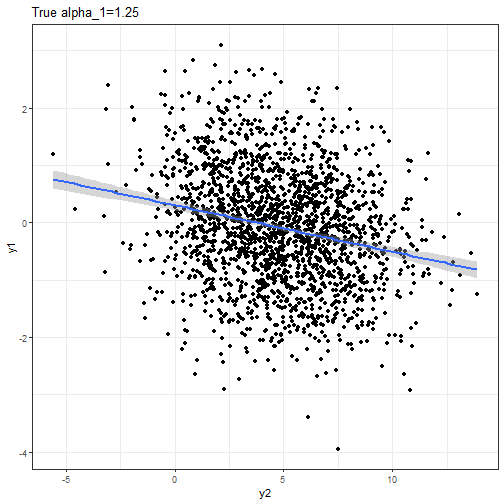
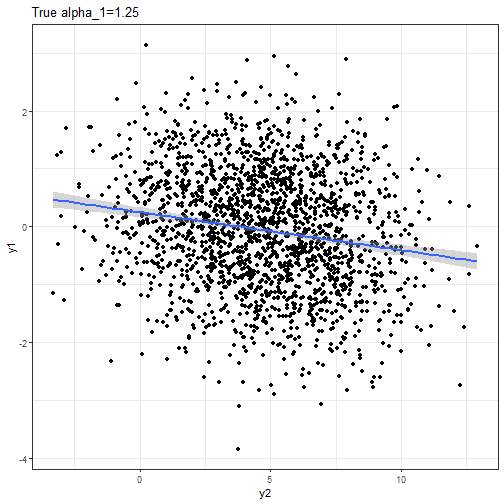
Sim.

diff --git a/lec/04-Instrumental-Variables/04-Instrumental-Variables.html b/lec/04-Instrumental-Variables/04-Instrumental-Variables.html
@@ -16,7 +16,7 @@ class: center, middle, inverse, title-slide
 # Instrumental Variables
 ## EC420 MSU Online
 ### Justin Kirkpatrick
-### Last updated June 06, 2021
+### Last updated June 08, 2021
 
 ---
 
@@ -1258,9 +1258,8 @@ This tells us whether or not we should be worried about correlation with `\(u\)`
 --
 
   - Although...we could think of times that even rainfall is endogenous.
-  - Any ideas about how *rainfall* could be endogenous?
   - What about a model that includes the selection of land for farming?
-  - How could we fix this?
+
   
   
 
@@ -1340,7 +1339,7 @@ class: MSU
 
 `\(h_i\)` and `\(w_i\)` are the endogenous variables. Why?
 
-### Because, given `\(z_{1i},z_{2i},u_{1i},u_{2i}\)`, then `\(h_i\)` and `\(w_i\)` are completely determined
+### Because, given `\(z_{1i},z_{2i},u_{1i},u_{2i}\)`, then `\(h_i\)` and `\(w_i\)` are .orange[completely determined]
 - with a few assumptions about `\(\alpha_1\)` and `\(\alpha_2\)`
 
 ### The dependent variable and one or more explanatory variables are jointly determined within the system.
@@ -1414,9 +1413,9 @@ We can formally show the bias in simultaneous equations. Remember, bias occurs w
 `$$y_1 = \alpha_1 y_2 + \beta_1 z_1 + u_1$$`
 
 `$$y_2 = \alpha_2 y_1 + \beta_2 z_2 + u_2$$`
-`\(y_1,y_2\)` could be `\(murdpc\)` and `\(polpc\)`.
+`\(y_1,y_2\)` could be `\(murdpc\)` and `\(polpc\)` from the previous section.
 
-### But estimating this first equation by OLS would result in a biased `\(\alpha_1\)`. So we can't do it. 
+### But estimating either equation by OLS would result in a biased `\(\alpha\)`. So we can't do it. 
 - Specifically, we are in trouble on the first if `\(y_2\)` is correlated with `\(u_1\)`; 
 - And if `\(y_1\)` is correlated with `\(u_2\)` for the second.
 - Let's see why this is true...
@@ -1427,40 +1426,8 @@ class: MSU
 
 ### To see bias, substitute the first equation into the second
 `$$y_2 = \alpha_2 \underbrace{\color{red}{(\alpha_1 y_2 + \beta_1 z_1 + u_1)}}_{y_1} + \beta_2 z_2 + u_2$$`
-`$$(1-\alpha_2 \alpha_1)y_2 = \alpha_2\beta_1 z_1 + \beta_2 z_2 + \underbrace{\alpha_2 u_1 + u_2}_{uh-oh}$$`
-
----
-class: MSU
-# Simultaneity
-
-Divide both sides by `\((1-\alpha_2 \alpha_1)\)`:
-`$$y_2 = \frac{\alpha_2 \beta_1}{(1-\alpha_2 \alpha_1)} z_1 + \frac{\beta_2}{(1-\alpha_2 \alpha_1)}z_2 +  \underbrace{ \frac{\alpha_2}{(1-\alpha_2 \alpha_1)} u_1 +\frac{1}{(1-\alpha_2 \alpha_1)}u_2}_{v_2}$$`
-
-`$$y_2 = \pi_{21} z_1 + \pi_{22} z_2 + v_2$$`
-### This is called the *reduced form* equation.
-- We *can* estimate `\(\pi_{21}\)` and `\(\pi_{22}\)`, but the coefficients lose their structural interpretation. 
-- Our estimation of `\(\pi_{21}\)` and `\(\pi_{22}\)` is unbiased - `\(z\)`'s are exogenous, and `\(u_1\)` itself is uncorrelated wtih `\(y_2\)`.
-
-
----
-class: MSU
-# Simultaneity
-
-### Back to checking to see if we have bias in:
-`$$y_1 = \alpha_1 y_2 + \beta_1 z_1 + u_1$$`
-Remember, we are in trouble if `\(y_2\)` is correlated with `\(u_1\)`, right?
-
-Well, we know:
-`$$y_2 = \pi_{21} z_1 + \pi_{22} z_2 + v_2$$`
-
-and `\(v_2\)`, the reduced form error:
-
-`$$v_2 = \frac{\alpha_2}{(1-\alpha_2 \alpha_1)} u_1 +\frac{1}{(1-\alpha_2 \alpha_1)}u_2$$`
-
-Since `\(v_2\)` has `\(u_1\)` in it, and since `\(y_2\)` has `\(v_2\)` in it, then `\(y_2\)` **is correlated with** `\(u_1\)`, and OLS of `\(y_1 = \alpha_1 y_2 + \beta_1 z_1 + u_1\)` is biased.
-
-### This is simultaneity bias
-
+`$$(1-\alpha_2 \alpha_1)y_2 =  \beta_2 z_2 + \alpha_2\beta_1 z_1 + \underbrace{\color{red}{\alpha_2 u_1}}_{uh-oh} + u_2$$`
+This shows that `\(y_2\)` is correlated with `\(u_1\)`. Estimating the `\(y_2\)` equation from the previous slide gives a biased `\(\alpha_2\)`. .orange[This is simultaneity bias].
 
 ---
 class: heading-slide
@@ -1471,6 +1438,43 @@ Identification in Simultaneous Equations
 
 
 ### [top](#Overview)
+
+---
+class: MSU
+# Simultaneity
+
+### We started with:
+
+`$$y_1 = \alpha_1 y_2 + \beta_1 z_1 + u_1$$`
+
+`$$y_2 = \alpha_2 y_1 + \beta_2 z_2 + u_2$$`
+---
+class: MSU
+# Simultaneity
+
+### We plugged in `\(y_1\)` as a function of `\(y_2,z_1,u_1\)` to estimate `\(\alpha_2\)`
+
+
+`$$(1-\alpha_2 \alpha_1)y_2 =  \beta_2 z_2 + \alpha_2\beta_1 z_1 + \alpha_2 u_1+ u_2$$`
+### and can do the same for `\(y_2\)`
+
+`$$(1-\alpha_2 \alpha_1)y_1 =  \beta_1 z_1 + \alpha_1\beta_2 z_2 + \alpha_1 u_2+ u_1$$`
+
+---
+class: MSU
+# Simultaneity
+
+In the `\(y_2\)` equation, Divide both sides by `\((1-\alpha_2 \alpha_1)\)`:
+
+`$$y_2 = \frac{\beta_2}{(1-\alpha_2 \alpha_1)}z_2 +  \frac{\alpha_2 \beta_1}{(1-\alpha_2 \alpha_1)} z_1 + \underbrace{ \frac{\alpha_2}{(1-\alpha_2 \alpha_1)} u_1 +\frac{1}{(1-\alpha_2 \alpha_1)}u_2}_{v_2}$$`
+Which gives us:
+
+`$$y_2 = \pi_{21} z_1 + \pi_{22} z_2 + v_2$$`
+
+### This is called the *reduced form* equation for `\(y_2\)`
+- We *can* estimate `\(\pi_{21}\)` and `\(\pi_{22}\)`, but the coefficients lose their structural interpretation. 
+- Our estimation of `\(\pi_{21}\)` and `\(\pi_{22}\)` is unbiased - `\(z\)`'s are exogenous.
+- `\(\pi_{21}\)` and `\(\pi_{22}\)` are functions of the structural parameters `\(\{\alpha_1,\alpha_2,\beta_1,\beta_2\}\)`
 
 
 
@@ -1505,9 +1509,9 @@ class: MSU
 # Simultaneity
 
 ### Our two equation system, again (with the problems in .red[red] and .blue[blue]:
-`$$y_1 = \alpha_1 \color{red}{y_2} + \beta_1 z_1 + \color{red}{u_1}$$`
+`$$y_1 = \alpha_1 \color{red}{y_2} + \color{black}{\beta_1 z_1} + \color{red}{u_1}$$`
 
-`$$y_2 = \alpha_2 \color{blue}{y_1} + \beta_2 z_2 + \color{blue}{u_2}$$`
+`$$y_2 = \alpha_2 \color{blue}{y_1} + \color{black}{\beta_2 z_2} + \color{blue}{u_2}$$`
 ---
 class: MSU
 # Simultaneity
@@ -1544,27 +1548,27 @@ class: MSU
 ## lm(formula = y2 ~ z1 + z2, data = df1)
 ## 
 ## Residuals:
-##     Min      1Q  Median      3Q     Max 
-## -8.4942 -1.4893  0.0174  1.5138  7.6850 
+##    Min     1Q Median     3Q    Max 
+## -6.327 -1.461  0.036  1.411  7.688 
 ## 
 ## Coefficients:
 ##             Estimate Std. Error t value Pr(&gt;|t|)    
-## (Intercept) -0.33623    0.19363  -1.736   0.0826 .  
-## z1           2.20418    0.05856  37.639  &lt; 2e-16 ***
-## z2           0.20635    0.04311   4.786 1.82e-06 ***
+## (Intercept) -0.12926    0.20305  -0.637 0.524456    
+## z1           2.13284    0.05970  35.724  &lt; 2e-16 ***
+## z2           0.15607    0.04342   3.595 0.000333 ***
 ## ---
 ## Signif. codes:  0 '***' 0.001 '**' 0.01 '*' 0.05 '.' 0.1 ' ' 1
 ## 
-## Residual standard error: 2.165 on 1997 degrees of freedom
-## Multiple R-squared:  0.4206,	Adjusted R-squared:  0.4201 
-## F-statistic: 724.9 on 2 and 1997 DF,  p-value: &lt; 2.2e-16
+## Residual standard error: 2.164 on 1997 degrees of freedom
+## Multiple R-squared:  0.3912,	Adjusted R-squared:  0.3905 
+## F-statistic: 641.5 on 2 and 1997 DF,  p-value: &lt; 2.2e-16
 ```
 ---
 class: MSU 
 # Simultaneity
 
 ### Second stage
-`$$y_1 = \alpha_2 \hat{y}_2 + \beta_1 z_1 + u$$`
+`$$y_1 = \alpha_1 \hat{y}_2 + \beta_1 z_1 + u$$`
 
 ```
 ## 
@@ -1572,20 +1576,20 @@ class: MSU
 ## lm(formula = y1 ~ y2hat + z1, data = df1)
 ## 
 ## Residuals:
-##     Min      1Q  Median      3Q     Max 
-## -3.2373 -0.6425  0.0223  0.6237  3.0992 
+##      Min       1Q   Median       3Q      Max 
+## -3.13942 -0.67324  0.00917  0.68954  2.97891 
 ## 
 ## Coefficients:
-##             Estimate Std. Error t value Pr(&gt;|t|)    
-## (Intercept)  0.28441    0.06437   4.418 1.05e-05 ***
-## y2hat        0.88644    0.09129   9.710  &lt; 2e-16 ***
-## z1          -2.31024    0.20350 -11.352  &lt; 2e-16 ***
+##              Estimate Std. Error t value Pr(&gt;|t|)    
+## (Intercept)  0.009626   0.078778   0.122    0.903    
+## y2hat        1.392403   0.123880  11.240   &lt;2e-16 ***
+## z1          -3.293019   0.264816 -12.435   &lt;2e-16 ***
 ## ---
 ## Signif. codes:  0 '***' 0.001 '**' 0.01 '*' 0.05 '.' 0.1 ' ' 1
 ## 
-## Residual standard error: 0.9461 on 1997 degrees of freedom
-## Multiple R-squared:  0.1235,	Adjusted R-squared:  0.1226 
-## F-statistic: 140.7 on 2 and 1997 DF,  p-value: &lt; 2.2e-16
+## Residual standard error: 0.9635 on 1997 degrees of freedom
+## Multiple R-squared:  0.1237,	Adjusted R-squared:  0.1228 
+## F-statistic:   141 on 2 and 1997 DF,  p-value: &lt; 2.2e-16
 ```
 
 
@@ -1594,7 +1598,7 @@ class: MSU
 # Simultaneity
 
 ### The second-stage coefficient
-We get a pretty accurate estimate for `\(\alpha_1=0.89\)` from the second-stage having used `\(z_2\)` to instrument for `\(y_2\)`.
+We get a pretty accurate estimate for `\(\alpha_1=1.39\)` from the second-stage having used `\(z_2\)` to instrument for `\(y_2\)`.
 
 ---
 class: MSU
